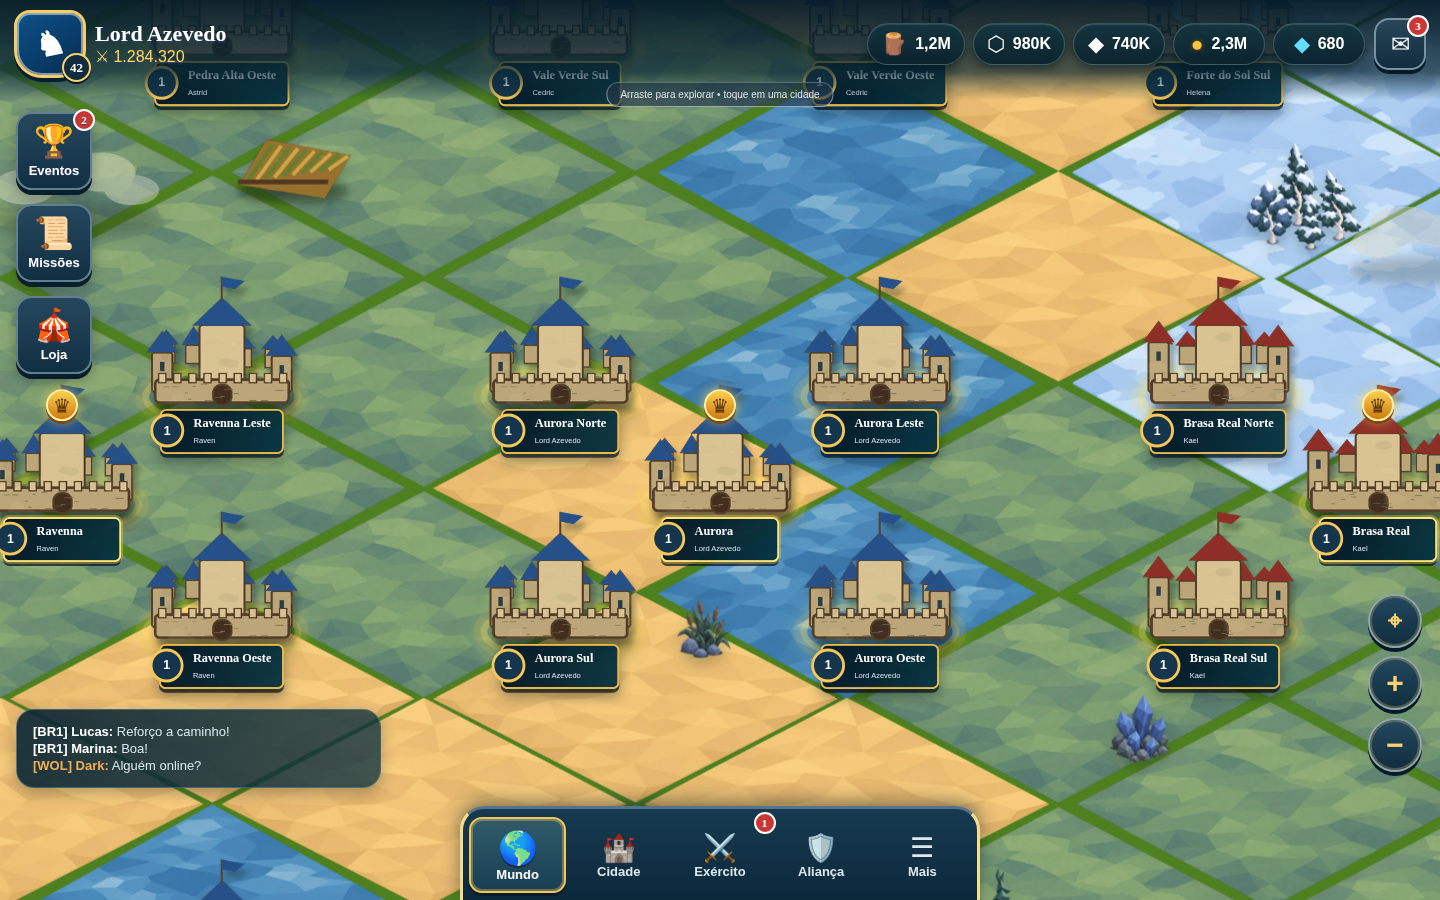
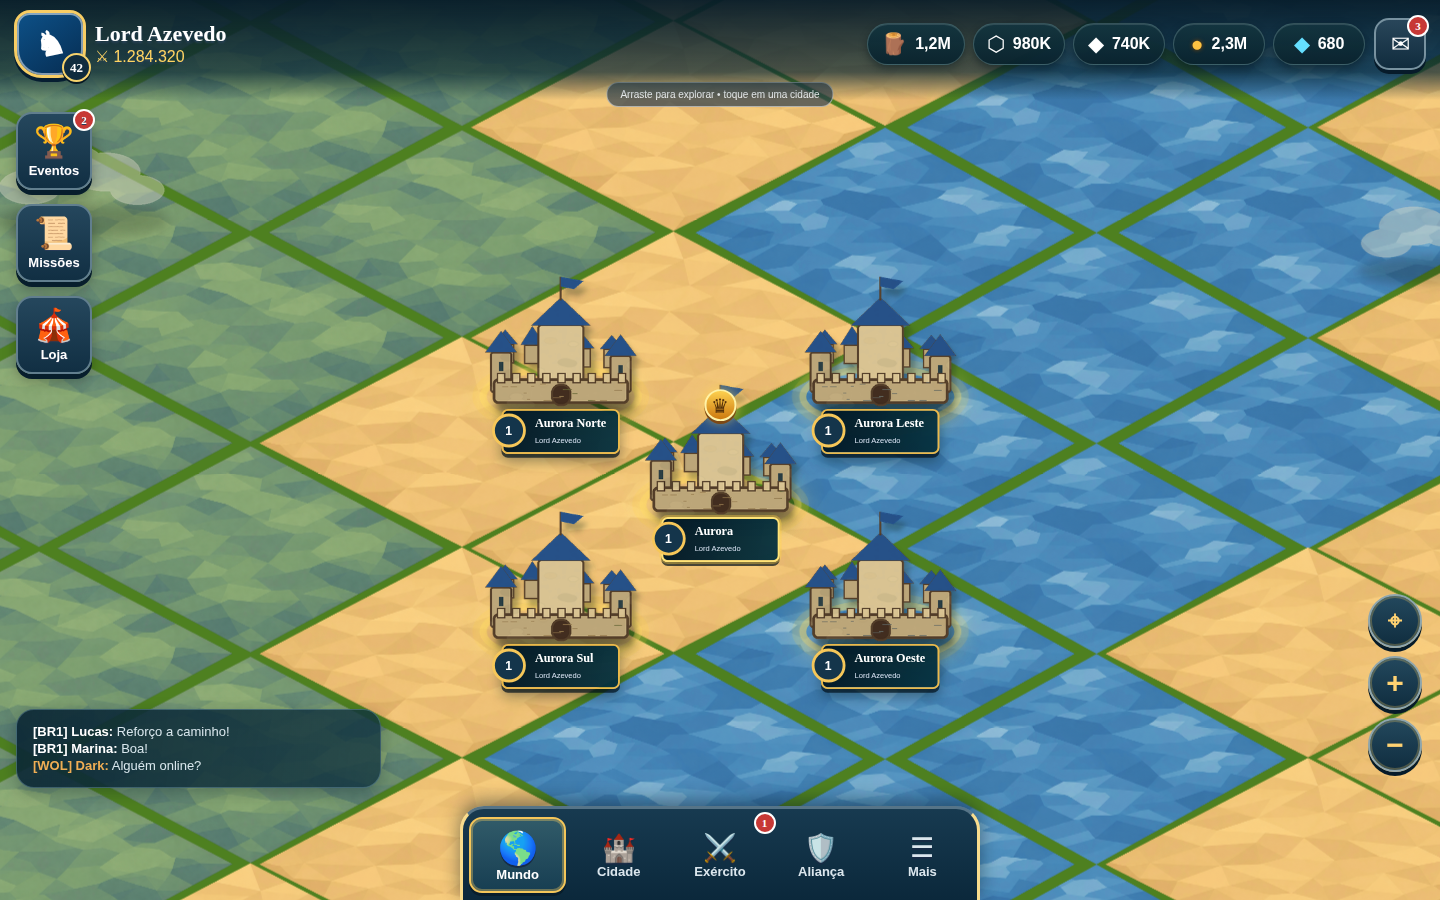
Amplia area util do mapa em dez vezes

diff --git a/world-state.js b/world-state.js
@@ -13,6 +13,8 @@
   const CLUSTER_HEIGHT = 620;
   const MAP_PADDING = 360;
   const MINIMUM_COLUMNS = 3;
+  const MAP_AREA_MULTIPLIER = 10;
+  const MAP_LINEAR_SCALE = Math.sqrt(MAP_AREA_MULTIPLIER);
 
   const BOT_PROFILES = Object.freeze([
     { id: 'bot-north', name: 'Astrid', alliance: 'Clã do Norte', tone: 'red' },
@@ -49,8 +51,8 @@
     return {
       columns,
       rows,
-      width: (columns * CLUSTER_WIDTH) + MAP_PADDING,
-      height: (rows * CLUSTER_HEIGHT) + MAP_PADDING
+      width: Math.round(((columns * CLUSTER_WIDTH) + MAP_PADDING) * MAP_LINEAR_SCALE),
+      height: Math.round(((rows * CLUSTER_HEIGHT) + MAP_PADDING) * MAP_LINEAR_SCALE)
     };
   }
 
@@ -65,8 +67,8 @@
       const slot = playerIndex === 0 ? centerSlot : availableSlots[playerIndex - 1];
       const column = slot % dimensions.columns;
       const row = Math.floor(slot / dimensions.columns);
-      const centerX = (MAP_PADDING / 2) + (column * CLUSTER_WIDTH) + (CLUSTER_WIDTH / 2);
-      const centerY = (MAP_PADDING / 2) + (row * CLUSTER_HEIGHT) + (CLUSTER_HEIGHT / 2);
+      const centerX = ((MAP_PADDING / 2) + (column * CLUSTER_WIDTH) + (CLUSTER_WIDTH / 2)) * MAP_LINEAR_SCALE;
+      const centerY = ((MAP_PADDING / 2) + (row * CLUSTER_HEIGHT) + (CLUSTER_HEIGHT / 2)) * MAP_LINEAR_SCALE;
       const capitalName = CAPITAL_NAMES[playerIndex % CAPITAL_NAMES.length];
 
       return CITY_OFFSETS.map((offset, cityIndex) => ({
@@ -152,6 +154,7 @@
     STARTING_CITIES_PER_PLAYER,
     DEFAULT_BOT_COUNT,
     NEUTRAL_CITIES_PER_PLAYER,
+    MAP_AREA_MULTIPLIER,
     createPlayers,
     mapDimensions,
     createInitialWorld,

diff --git a/tests/world-state.test.js b/tests/world-state.test.js
@@ -2,11 +2,22 @@ const test = require('node:test');
 const assert = require('node:assert/strict');
 const {
   DEFAULT_BOT_COUNT,
+  MAP_AREA_MULTIPLIER,
   PLAYER_ID,
   STARTING_CITIES_PER_PLAYER,
   createInitialWorld,
   moveCapital
 } = require('../world-state.js');
+
+test('amplia a área do mapa em dez vezes sem transformar 10x em cada eixo', () => {
+  const dimensions = createInitialWorld({ botCount: 6 }).dimensions;
+  const previousWidth = (3 * 700) + 360;
+  const previousHeight = (3 * 620) + 360;
+  const areaRatio = (dimensions.width * dimensions.height) / (previousWidth * previousHeight);
+
+  assert.equal(MAP_AREA_MULTIPLIER, 10);
+  assert.ok(Math.abs(areaRatio - MAP_AREA_MULTIPLIER) < 0.01);
+});
 
 test('inicia o jogador e seis bots com cinco vilas de nível 1', () => {
   const world = createInitialWorld();
